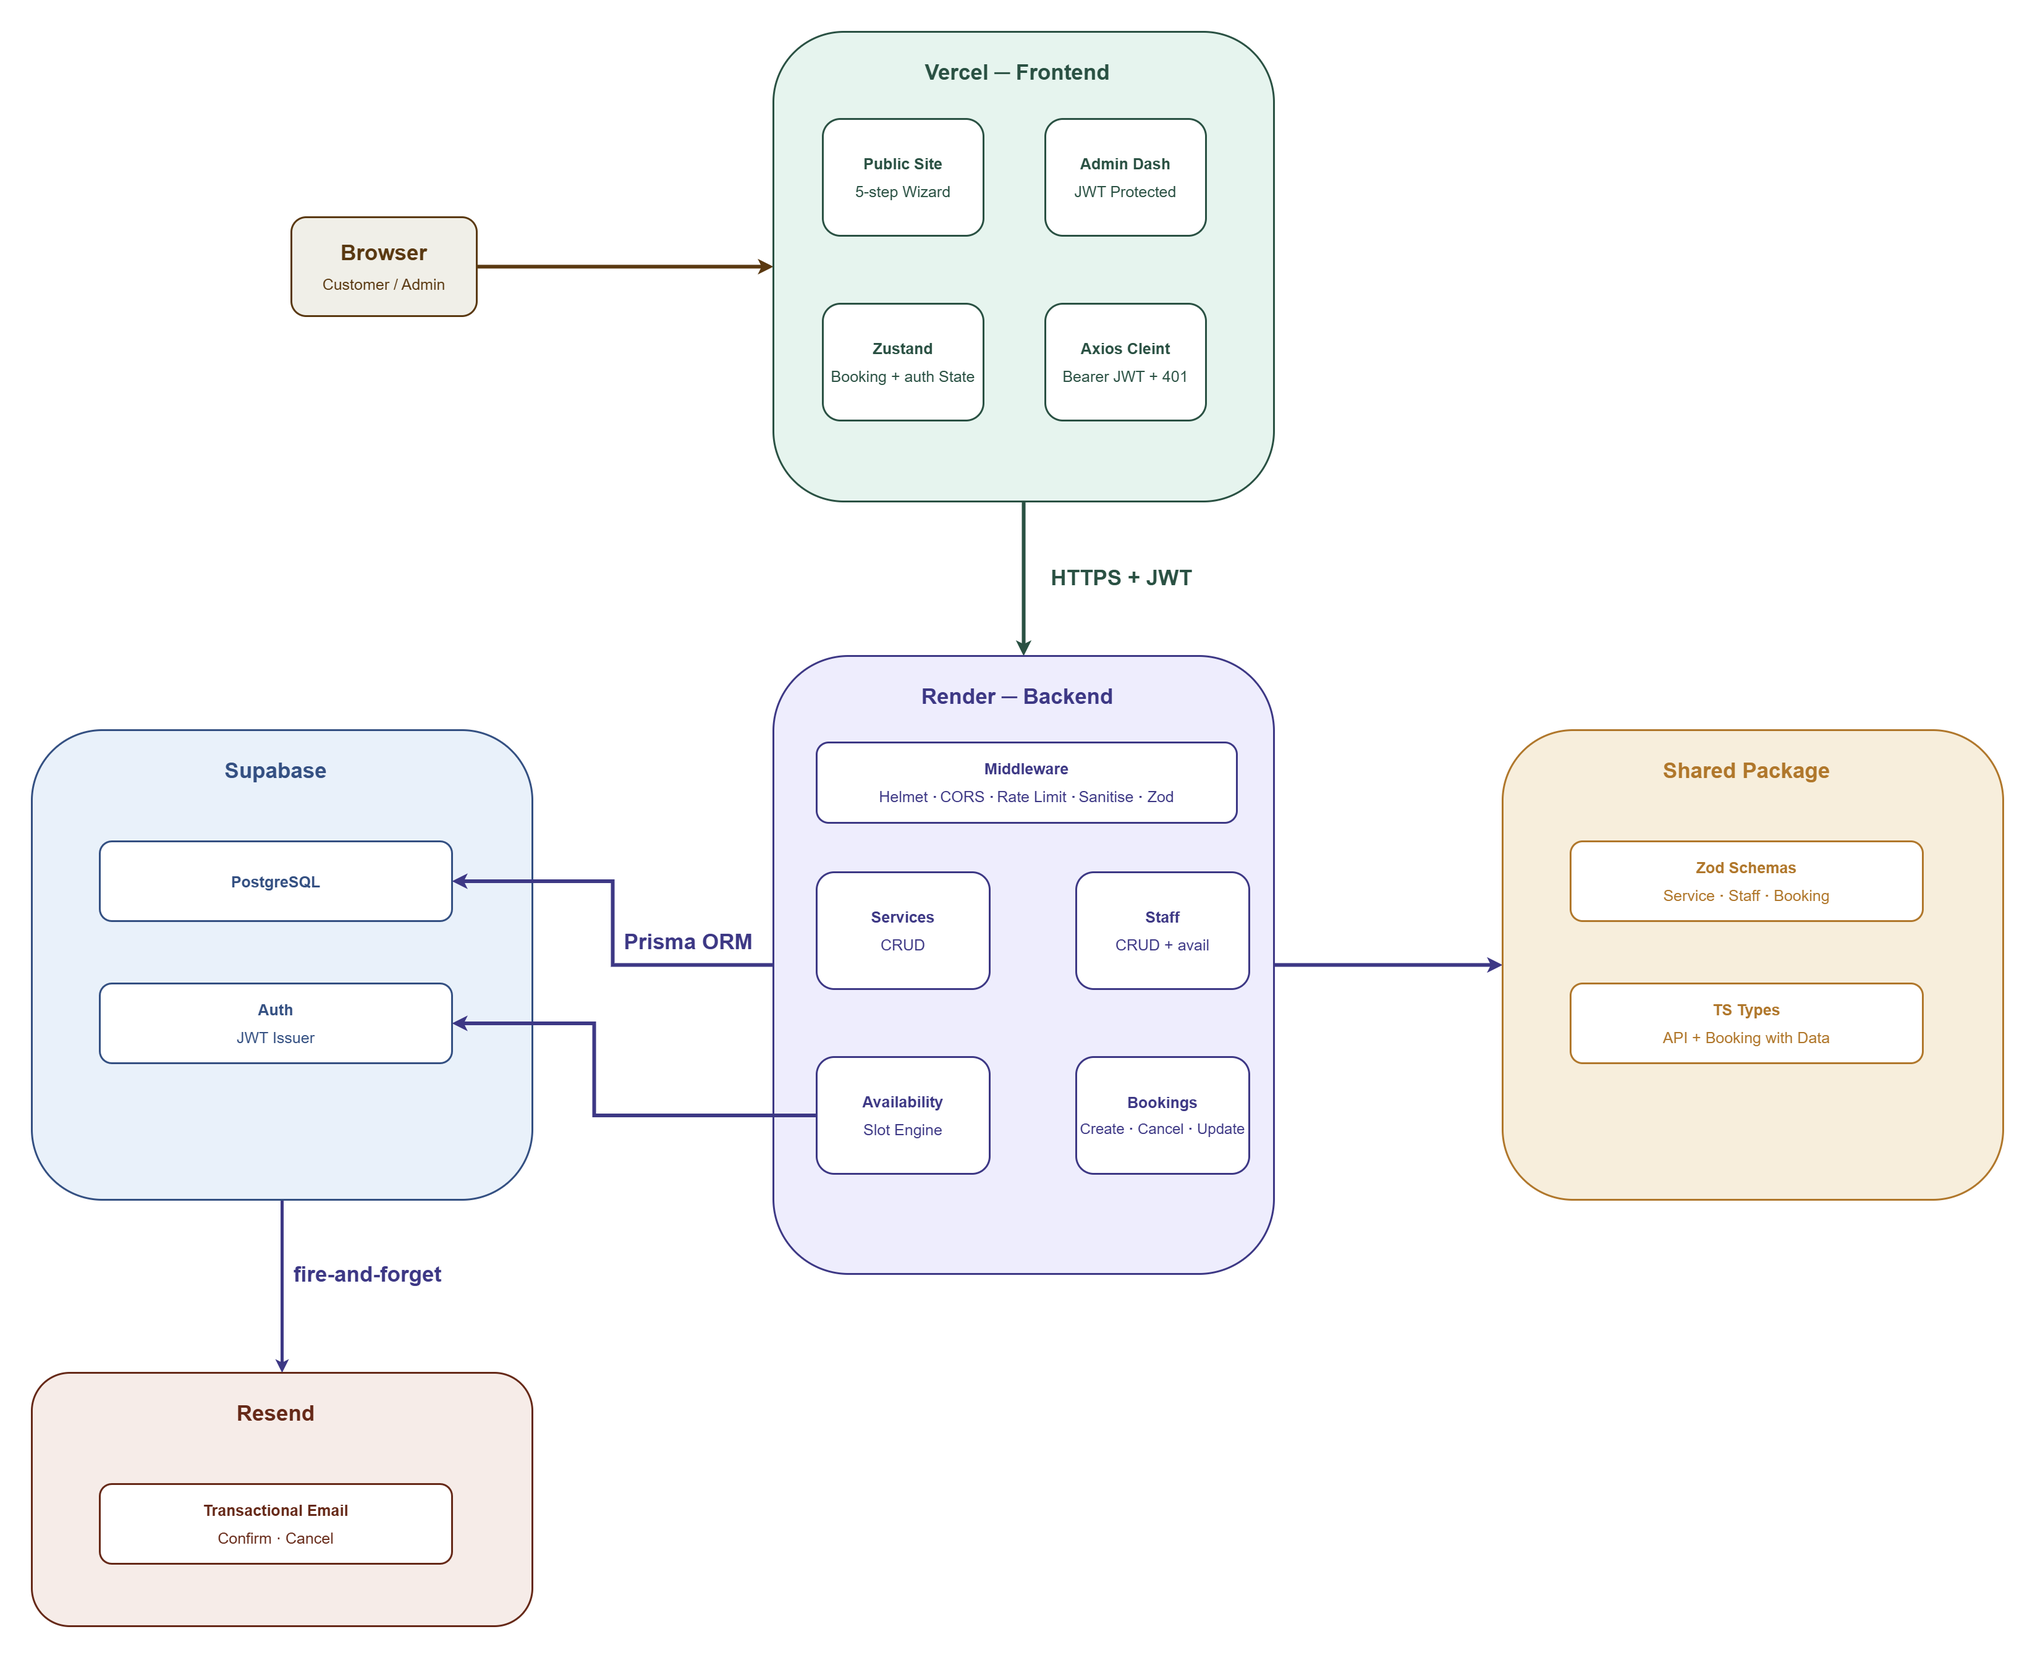
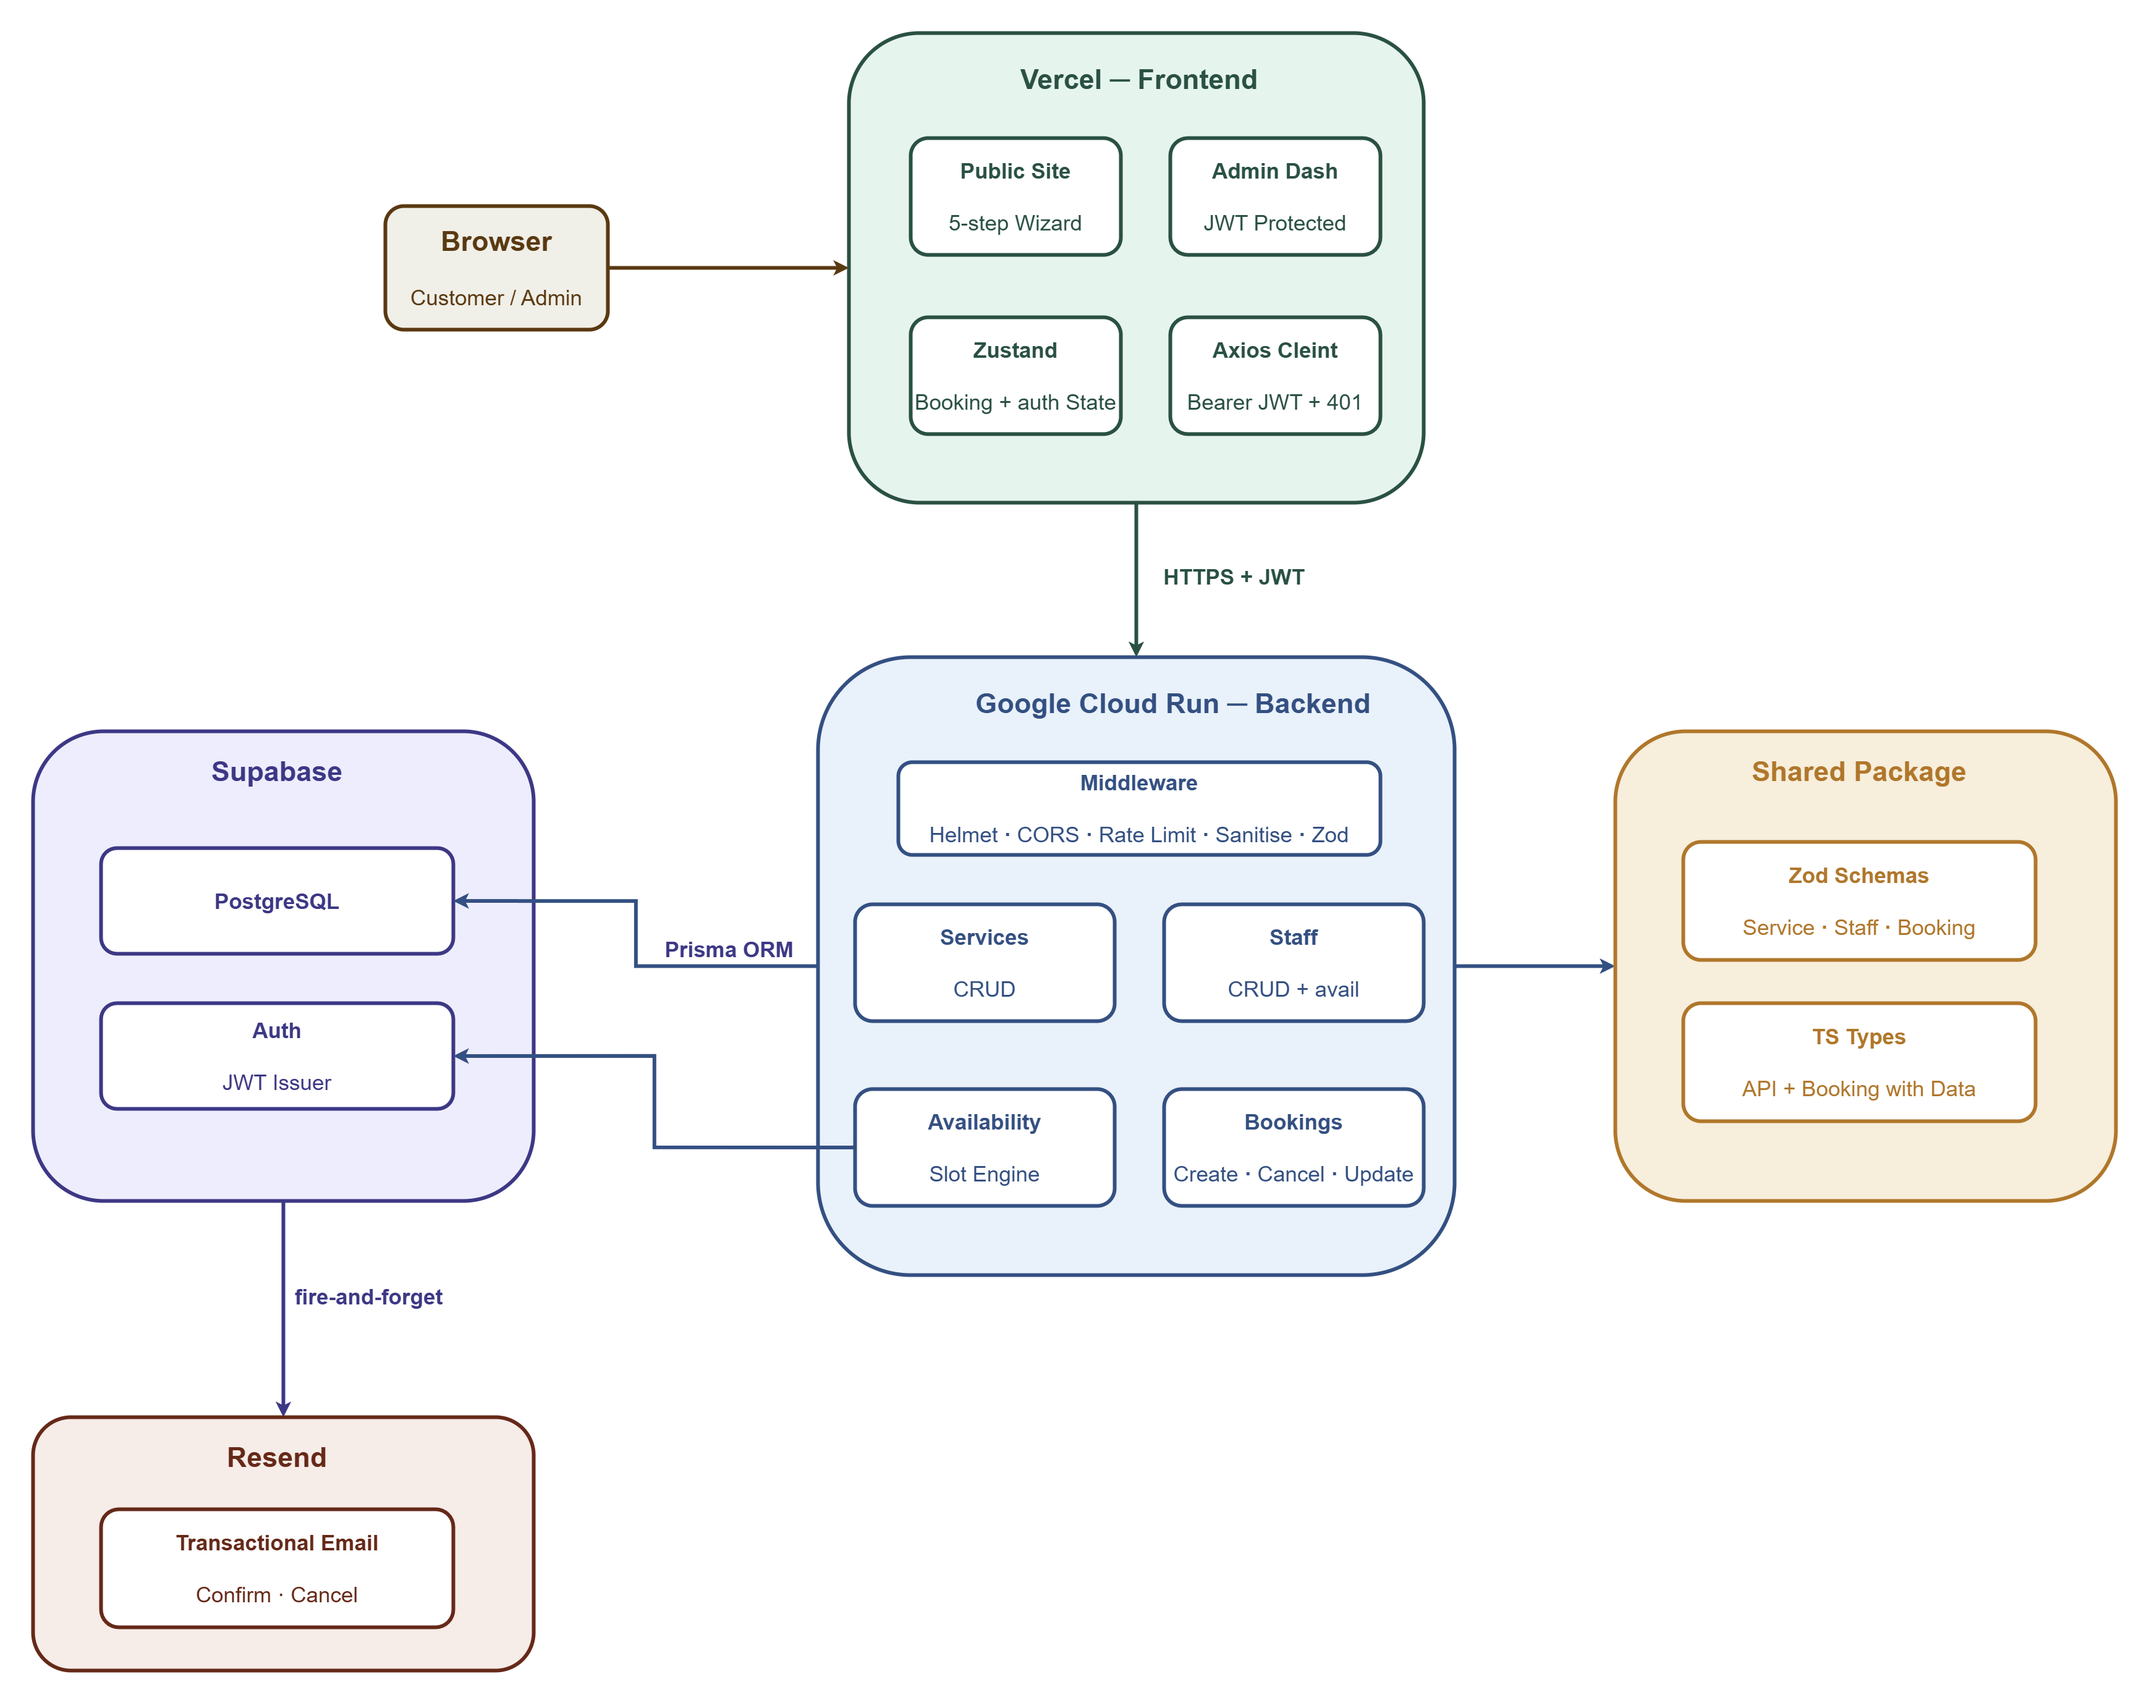
Updating README.MD to replace Render.com with Google Cloud Run for backend hosting + minor Architectural Diagram visual fixes (improements)

diff --git a/README.md b/README.md
@@ -3,7 +3,7 @@
 A production-deployed, end-to-end appointment booking platform built for a premium hair salon. This project covers the full product lifecycle — database design, REST API architecture, customer-facing UI, transactional email, and a secure admin dashboard — deployed and live.
 
 **Live site:** [luxe-hair-studio-frontend.vercel.app](https://luxe-hair-studio-frontend.vercel.app)  
-**API health:** [luxe-hair-studio-api.onrender.com/health](https://luxe-hair-studio-api.onrender.com/health)  
+**API health:** [https://luxe-hair-studio-backend-334263295854.us-central1.run.app/health](https://luxe-hair-studio-backend-334263295854.us-central1.run.app/health)  
 **Repo:** [github.com/AhmedIsmailKhalid/Luxe-Hair-Studio](https://github.com/AhmedIsmailKhalid/Luxe-Hair-Studio)
 
 ---
@@ -69,7 +69,7 @@ This project is what a purpose-built alternative looks like: a booking system de
 | Logging | Winston |
 | Shared validation | Zod (monorepo shared package) |
 | Frontend deployment | Vercel |
-| Backend deployment | Render |
+| Backend deployment | Google Cloud Run |
 | Uptime monitoring | UptimeRobot |
 
 ---
@@ -78,7 +78,7 @@ This project is what a purpose-built alternative looks like: a booking system de
 
 ![Luxe Architectural Diagram](assets/Luxe-Architectural-Diagram.png)
 
-At a high level: the React frontend is deployed on Vercel and communicates with an Express REST API on Render via authenticated Axios requests. The backend validates all inputs with Zod, applies rate limiting, sanitises client data, and persists to a PostgreSQL database via Prisma. Supabase handles both the database hosting and JWT-based admin authentication. Resend handles transactional email on a fire-and-forget basis.
+At a high level: the React frontend is deployed on Vercel and communicates with an Express REST API on Google Cloud Run via authenticated Axios requests. The backend validates all inputs with Zod, applies rate limiting, sanitises client data, and persists to a PostgreSQL database via Prisma. Supabase handles both the database hosting and JWT-based admin authentication. Resend handles transactional email on a fire-and-forget basis.
 
 ---
 
@@ -165,9 +165,6 @@ npm run dev
 | Service | Platform | URL |
 |---|---|---|
 | Frontend | Vercel | luxe-hair-studio-frontend.vercel.app |
-| Backend | Render (free tier) | luxe-hair-studio-api.onrender.com |
+| Backend | Google Cloud Run | luxe-hair-studio-backend-334263295854.us-central1.run.app |
 | Database | Supabase | Hosted PostgreSQL (session pooler) |
 | Email | Resend | bookings@fueontaame.resend.app |
-| Uptime monitoring | UptimeRobot | Pings /health every 14 min |
-
-> The backend runs on Render's free tier which spins down after inactivity. UptimeRobot pings `/health` every 14 minutes to prevent cold starts.
